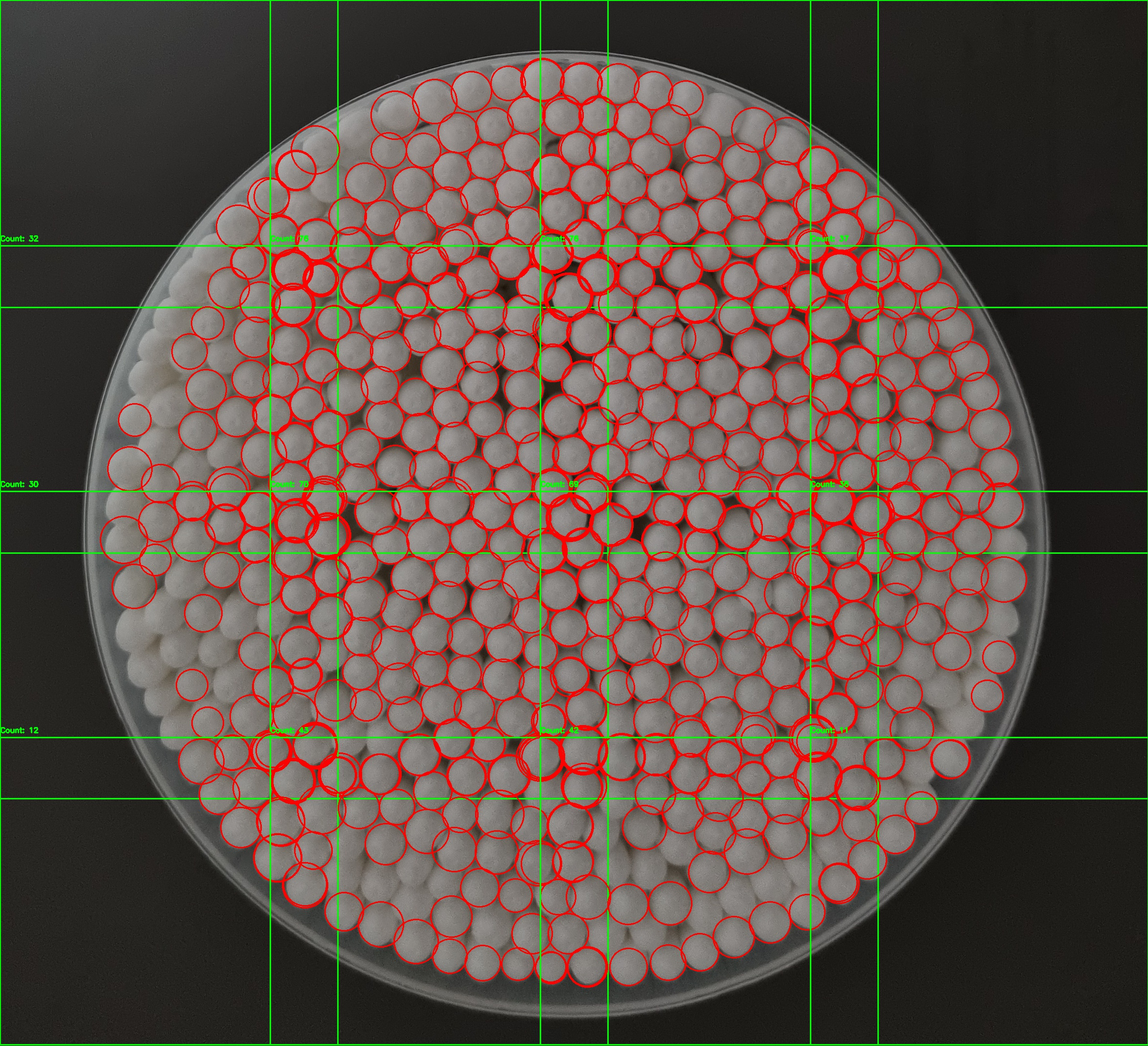
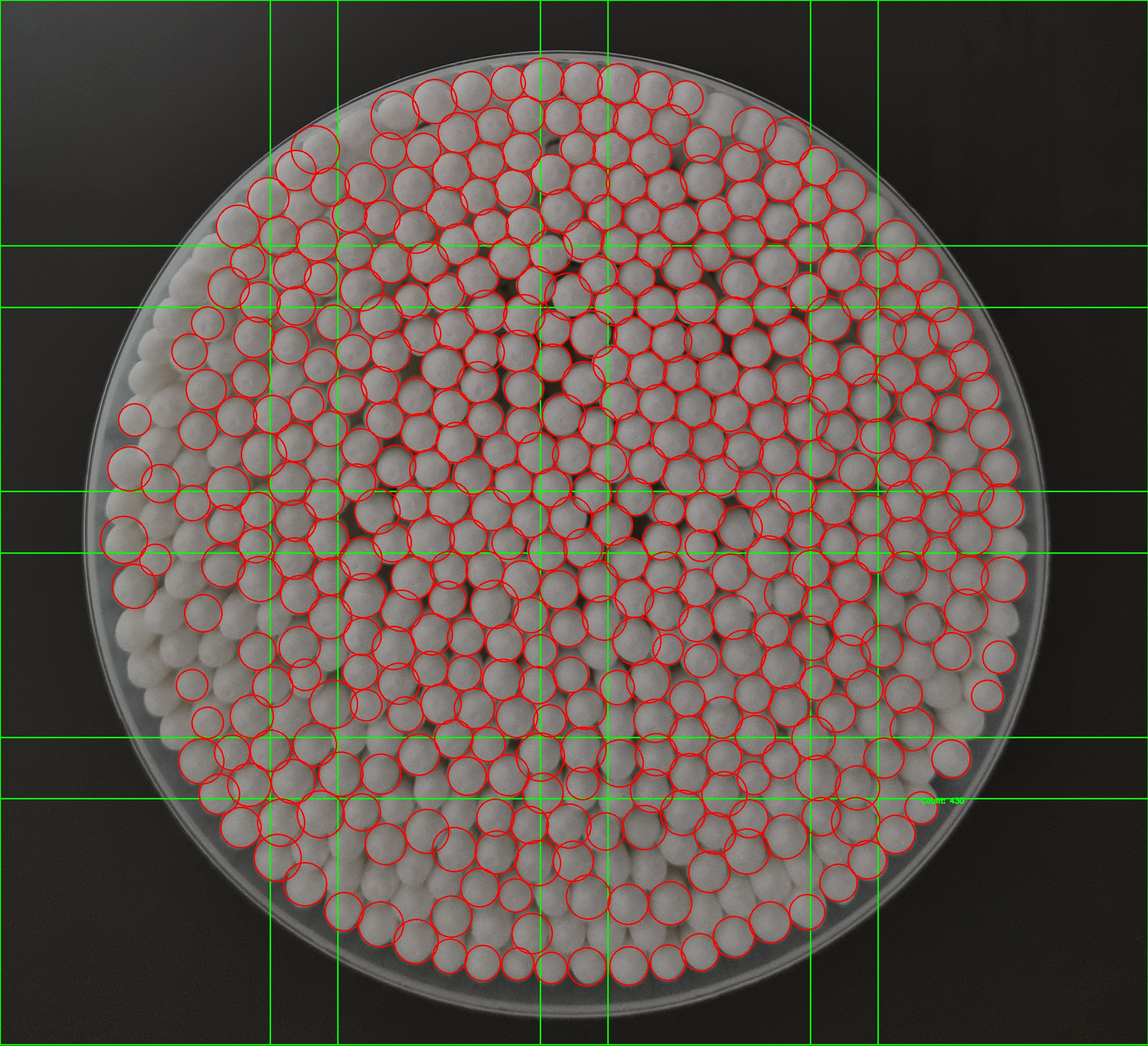
[10/7]클로드 1차

diff --git a/팀플/ASC_1007.py b/팀플/ASC_1007.py
@@ -1,0 +1,150 @@
+import cv2
+import numpy as np
+import tkinter as tk
+from tkinter import filedialog
+import matplotlib.pyplot as plt
+
+# 이미지 불러오기 함수
+def load_image(image_path):
+    return cv2.imread(image_path)
+
+# ROI 생성 함수
+def create_roi(image, roi_size, overlap=0.2):
+    height, width = image.shape[:2]
+    roi_height, roi_width = roi_size
+    
+    step_y = roi_height * (1 - overlap)
+    step_x = roi_width * (1 - overlap)
+    
+    roi_list = []
+    for i in range(4):
+        for j in range(4):
+            y = int(i * step_y)
+            x = int(j * step_x)
+            y = min(y, height - roi_height)
+            x = min(x, width - roi_width)
+            roi = image[y:y+roi_height, x:x+roi_width]
+            roi_list.append((roi, (x, y)))
+    
+    return roi_list
+
+# ROI 전처리 함수
+def preprocess_roi(roi):
+    gray = cv2.cvtColor(roi, cv2.COLOR_BGR2GRAY)
+    blurred = cv2.GaussianBlur(gray, (5, 5), 0)
+    return blurred
+
+# 면봉 검출 함수
+def detect_cotton_swabs(roi, blurred, min_radius, max_radius, param1, param2):
+    circles = cv2.HoughCircles(blurred, cv2.HOUGH_GRADIENT, dp=1.3, minDist=50,
+                               param1=param1, param2=param2, 
+                               minRadius=min_radius, maxRadius=max_radius)
+    
+    if circles is not None:
+        return np.round(circles[0, :]).astype("int")
+    return []
+
+# 중복된 원 제거 함수
+def remove_duplicate_circles(circles, distance_threshold):
+    if len(circles) == 0:
+        return []
+
+    # 모든 원의 좌표를 하나의 리스트로 변환
+    all_circles = [(x, y, r) for roi_circles in circles for (x, y, r) in roi_circles]
+    
+    # 중복 제거된 원들을 저장할 리스트
+    unique_circles = []
+    
+    while len(all_circles) > 0:
+        # 현재 원을 기준으로 설정
+        current_circle = all_circles.pop(0)
+        unique_circles.append(current_circle)
+        
+        # 현재 원과 가까운 원들을 제거
+        all_circles = [circle for circle in all_circles
+                       if calculate_distance(current_circle, circle) > distance_threshold]
+    
+    return unique_circles
+
+# 원 사이의 거리 계산 함수
+def calculate_distance(circle1, circle2):
+    x1, y1, _ = circle1
+    x2, y2, _ = circle2
+    return ((x1 - x2) ** 2 + (y1 - y2) ** 2) ** 0.5
+
+# 이미지 처리 함수
+def process_image(image_path, min_radius, max_radius, param1, param2, distance_threshold):
+    image = load_image(image_path)
+    if image is None:
+        print("이미지를 불러오는 데 실패했습니다.")
+        return
+    
+    height, width = image.shape[:2]
+    roi_size = (int(height * 5/17), int(width * 5/17))
+    roi_list = create_roi(image, roi_size)
+    
+    # 모든 ROI에서 검출된 원들을 저장할 리스트
+    all_circles = []
+    preprocessed_images = []
+    
+    for roi, (x, y) in roi_list:
+        pre = preprocess_roi(roi)
+        preprocessed_images.append(pre)
+        
+        circles = detect_cotton_swabs(roi, pre, min_radius, max_radius, param1, param2)
+        # 원의 좌표를 전체 이미지 기준으로 변환
+        circles = [(cx + x, cy + y, r) for (cx, cy, r) in circles]
+        all_circles.append(circles)
+        # ROI 영역 체크(초록색 사각형)
+        cv2.rectangle(image, (x, y), (x + roi_size[1], y + roi_size[0]), (0, 255, 0), 2)
+    # 중복 원 제거
+    unique_circles = remove_duplicate_circles(all_circles, distance_threshold)
+    
+    # 결과 이미지에 원 그리기
+    for (x, y, r) in unique_circles:
+        cv2.circle(image, (x, y), r, (0, 0, 255), 2)
+    
+    total_cotton_swabs = len(unique_circles)
+    print(f"검출된 총 면봉 개수: {total_cotton_swabs}")
+    cv2.imwrite("result.jpg", image)
+    
+    # 결과 이미지와 전처리된 이미지 표시
+    plt.figure(figsize=(20, 10))
+    
+    # 결과 이미지 표시
+    plt.subplot(4, 5, 1)
+    plt.imshow(cv2.cvtColor(image, cv2.COLOR_BGR2RGB))
+    plt.title(f"Result Image (Total: {total_cotton_swabs})")
+    plt.axis('off')
+    
+    # ROI 이미지 표시 (오른쪽으로 정렬)
+    for i, preprocessed_img in enumerate(preprocessed_images):
+        row = i // 4
+        col = i % 4
+        plt.subplot(4, 5, 5 * row + col + 2)
+        plt.imshow(preprocessed_img, cmap='gray')
+        plt.title(f"ROI {i+1}")
+        plt.axis('off')
+    
+    plt.tight_layout()
+    
+    cv2.imshow("Result", image)
+    plt.show()
+    cv2.waitKey(0)
+    cv2.destroyAllWindows()
+
+def main():
+    root = tk.Tk()
+    root.withdraw()
+    
+    image_path = filedialog.askopenfilename()
+    min_radius = 30
+    max_radius = 50
+    param1 = 40
+    param2 = 28
+    distance_threshold = 30  # 이 값을 조정하여 중복 제거의 민감도를 조절할 수 있습니다
+    
+    process_image(image_path, min_radius, max_radius, param1, param2, distance_threshold)
+
+if __name__ == "__main__":
+    main()
